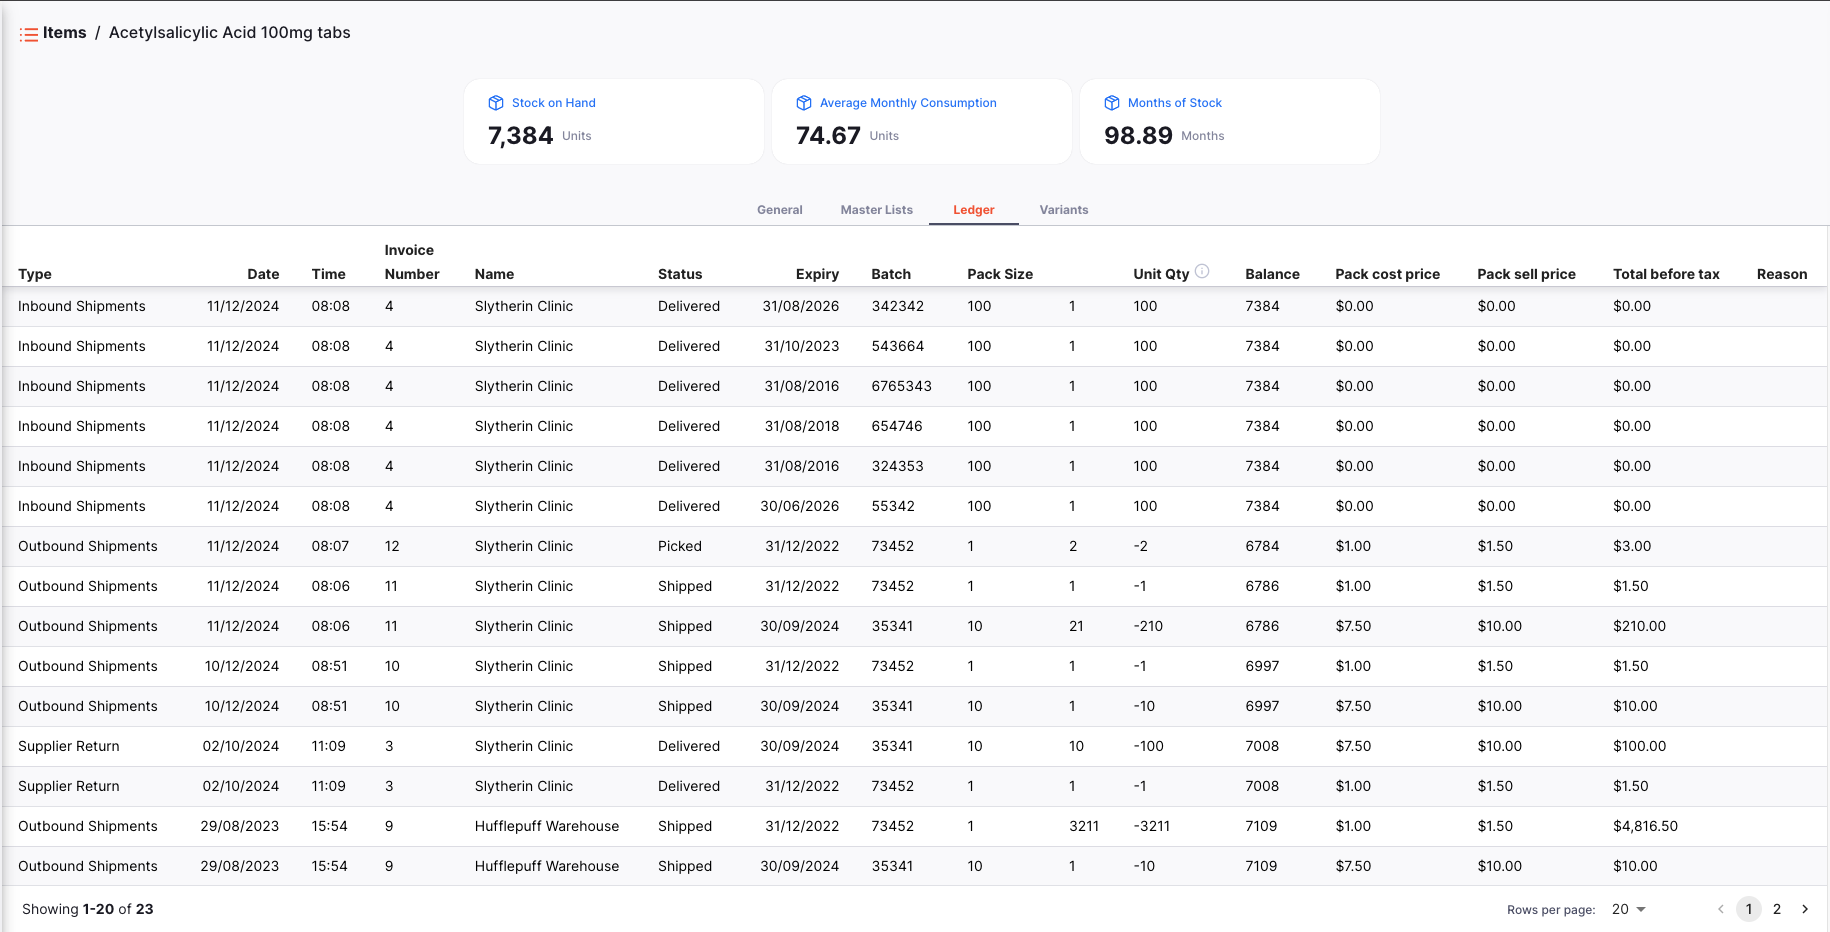
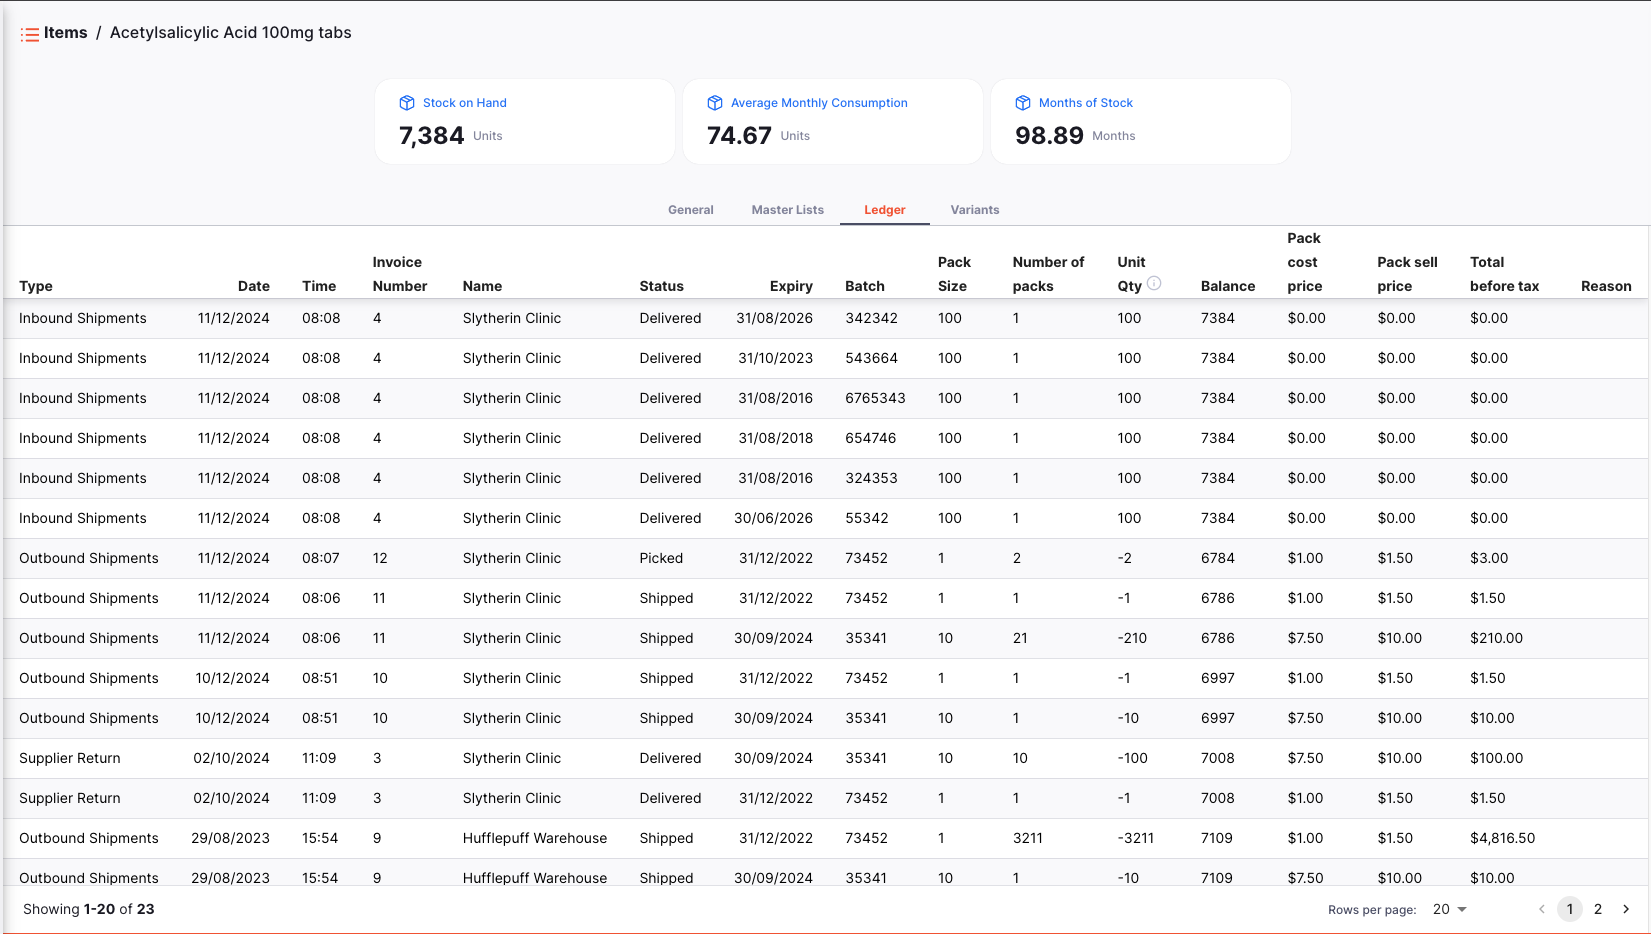
PR changes

diff --git a/content/docs/catalogue/items.md b/content/docs/catalogue/items.md
@@ -104,7 +104,7 @@ The item ledger tab shows the history of the item.
 
 ![](/docs/catalogue/images/item_ledger.png)
 
-The ledger is divided into 15 columns:
+The ledger is divided into 16 columns:
 
 | Column               | Description                                                      |
 | :------------------- | :--------------------------------------------------------------- |
@@ -116,7 +116,8 @@ The ledger is divided into 15 columns:
 | **Status**           | The status of the transaction                                    |
 | **Expiry**           | The expiry date of the stock line                                |
 | **Batch**            | The batch number of the stock line                               |
-| **Pack Size**        | The pack size and quantity                                       |
+| **Pack Size**        | The pack size                                                    |
+| **Number of packs**  | The number of packs in the transaction                           |
 | **Unit Qty**         | The quantity that was assigned to the transaction in units       |
 | **Balance**          | The balance of the stock line                                    |
 | **Pack cost price**  | The cost price of the pack                                       |

diff --git a/content/docs/programs/requisitions.md b/content/docs/programs/requisitions.md
@@ -79,8 +79,6 @@ This is how the extra columns look within an Internal Order:
 
 ![](/docs/programs/images/internal_order_extra_fields.gif)
 
-The line edit page will also contain the extra columns as well:
-
 <!-- TODO: Calculations (currently aren't calculated)  -->
 
 | Column                    | Description                                                                                                  |
@@ -96,6 +94,8 @@ The line edit page will also contain the extra columns as well:
 | **AMC**                   | The customer's average monthly consumption for this item                                                     |
 | **MOS**                   | Months of stock for the item                                                                                 |
 | **Reason**                | A reason will be provided if their is a difference between the suggested quantity and the requested quantity |
+
+The line edit page will also contain the extra columns.
 
 ![Program Requisition Line
 Edit](/docs/programs/images/internal_order_extra_fields_edit.png)

diff --git a/content/docs/programs/program_indicators.md b/content/docs/programs/program_indicators.md
@@ -46,14 +46,8 @@ stock from customers for internal orders` is enabled
 
 ![Use consumption & stock from customers for internal orders](/docs/programs/images/consumption_data_pref.png)
 
-then you will also see a table underneath the input fields which shows indicator
-data from customer stores.
-
+then you will also see a table showing summarised indicator data from your customer stores for the period.
 ![Indicator info](/docs/programs/images/indicator_info_table.png)
-
-If more than one program order has been created for this period with the same
-indicators, then the sum of the indicator will be displayed (if the question is
-expecting a number).
 
 The previous and next buttons at the bottom allows you to navigate between the
 indicators.
